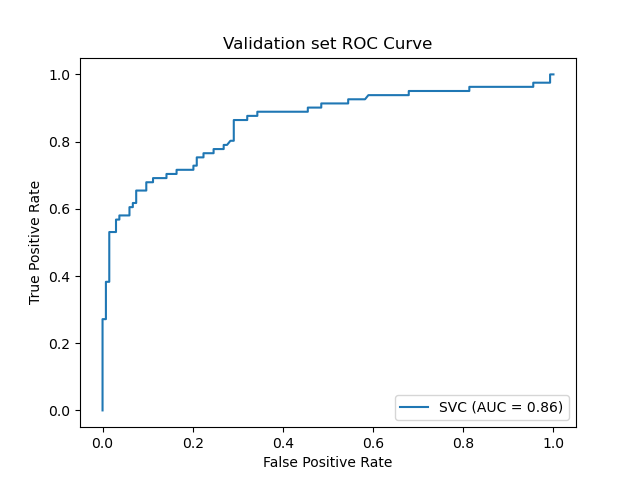
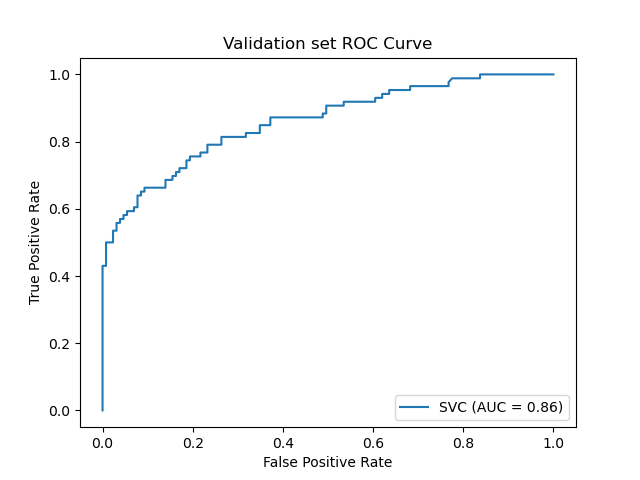
scaled test set, created ROC curves

Changed region(s): [[0.2188, 0.125, 0.875, 0.4062], [0.1562, 0.4062, 0.2188, 0.6562]]

diff --git a/train_test_validation.py b/train_test_validation.py
@@ -99,6 +99,9 @@ def feature_engineering(train_df, test_df):
     train_df['Age'] = scale(train_df['Age'])
     train_df['Fare'] = scale(train_df['Fare'])
 
+    test_df['Age'] = scale(test_df['Age'])
+    test_df['Fare'] = scale(test_df['Fare'])
+
     logging.info('Scaled features')
 
     # drop nan features
@@ -108,7 +111,7 @@ def feature_engineering(train_df, test_df):
     return train_df, test_df
 
 
-def cross_validate(train_df):
+def train_and_test(train_df):
     """
 
     Train and test using SVM and return predictions.
@@ -160,7 +163,7 @@ if __name__ == '__main__':
 
     train_df, test_df = main()
     train_df, test_df = feature_engineering(train_df, test_df)
-    model = cross_validate(train_df)
+    model = train_and_test(train_df)
 
     predictions = model.predict(test_df)
     print('End')
